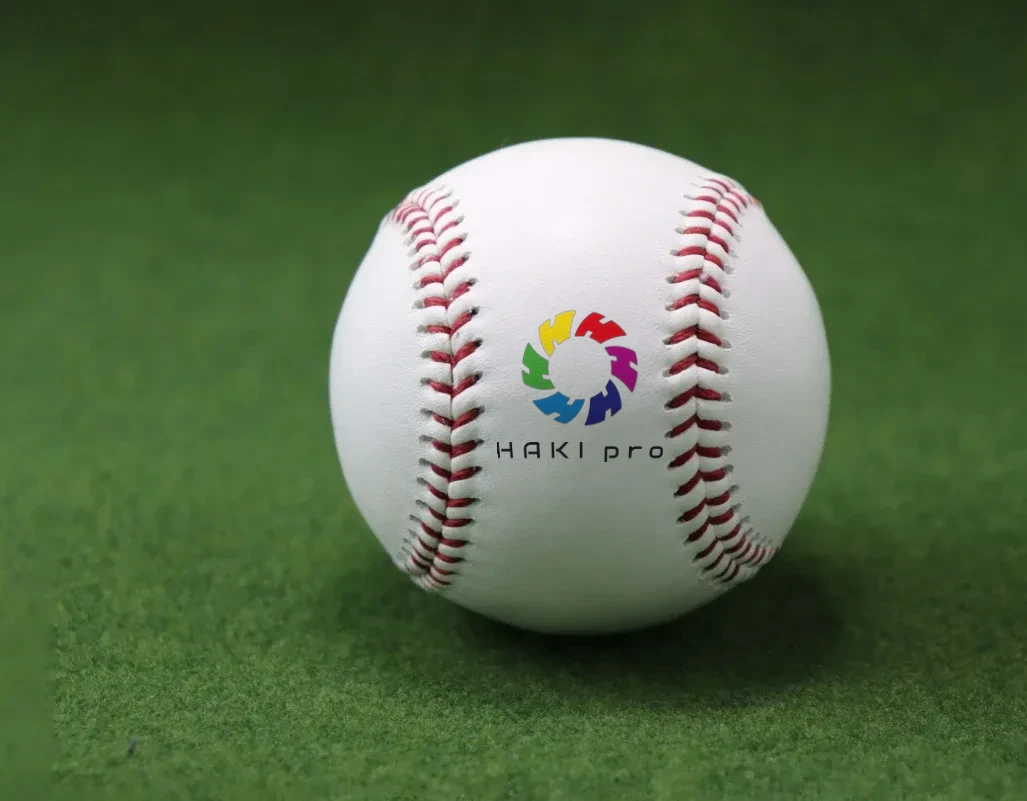
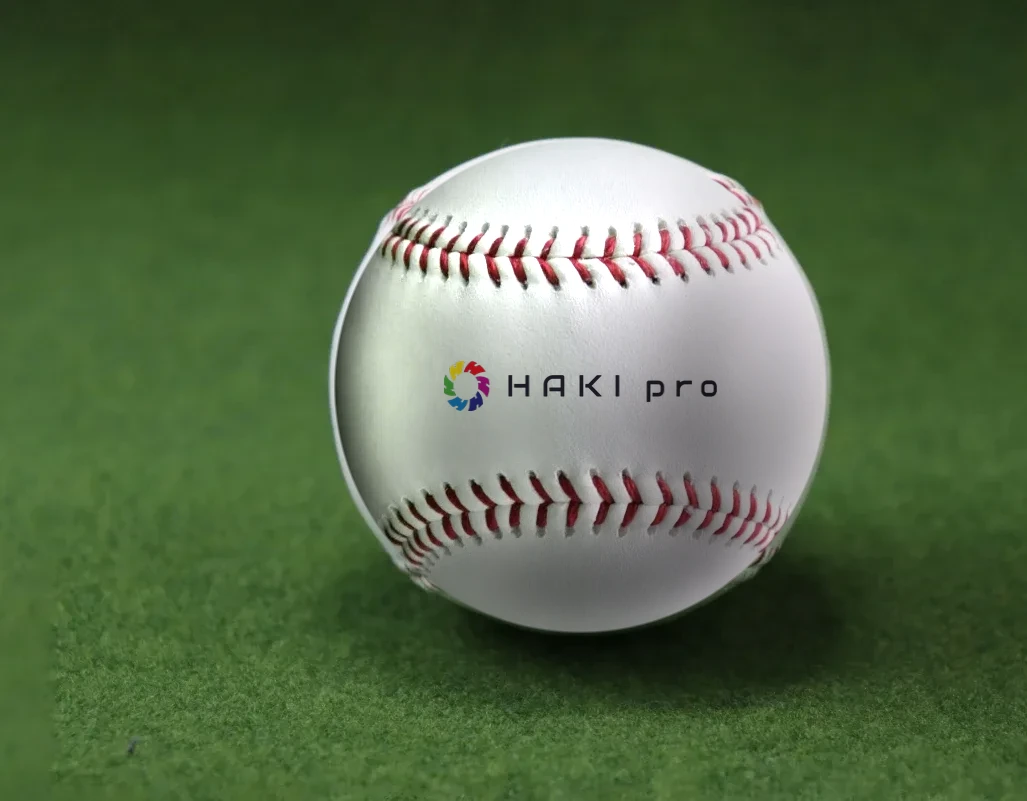
応援ボールのイメージ図：ロゴを横長にし、ボールを90度回して縫い目を上下に
Claude-Session: https://claude.ai/code/session_012Wpoh9LGyrFtd5bQQPYaSi

Changed region(s): [[0.3116, 0.1873, 0.8101, 0.8115], [0.5297, 0.1561, 0.5609, 0.1873]]

diff --git a/CLAUDE.md b/CLAUDE.md
@@ -84,7 +84,7 @@ haki-pro.com（株式会社HAKI pro）の作り直し。旧サイトは WordPres
 
 ## 硬式球再生と応援ボール（2026-11-22）
 - 対象は中学の硬式クラブ・高校・大学（少年野球は軟式なので書かない）。料金は税別で、金額のすぐ横に「（税別）」。ポイントは載せない（オーナー指示）
-- 社名入り応援ボールは 1球800円・10ダース（120球）から・96,000円〜（税別）。社名入りのイメージ図は `assets/img/ball-sponsor.webp`（本物のボールの写真 ball-new.webp に HAKI pro のロゴを球の丸みに合わせて重ねたもの。AI 画像ではない。下に「社名入りのイメージ」と書く）
+- 社名入り応援ボールは 1球800円・10ダース（120球）から・96,000円〜（税別）。社名入りのイメージ図は `assets/img/ball-sponsor.webp`（本物のボールの写真 ball-new.webp に ボールだけを90度回して縫い目を上下にし、横長のロゴ（マーク＋HAKI pro）を球の丸みに合わせて重ねたもの。オーナー指示「ロゴは横に・その分ボールも」。AI 画像ではない。下に「社名入りのイメージ」と書く）
 - CSR と税金は別ページ `/ball-recycle/sponsor/`（`build_sponsor`）。表は `dtable()`（スマホでは行ごとのまとまり。項目の間に線、スマホは項目名と中身の間にも縦線、パソコンは列の間に縦線。オーナー指示「間に線を引いて」「縦も入れて」）。税金は国税庁の資料で確かめたことだけ書く（公立高校＝県・市への寄付で全額損金／学校法人＝特定公益増進法人で別枠／国立・公立大学は窓口で確認）。最終判断は企業の顧問税理士
 - 縦に長い一覧は `cols()`（上の色の線＋番号＋見出し、横に並ぶ）を使う。オーナー指摘「縦にずらっと長いだけ」
 - 下層ページのパンくず（ホーム / …）はページの一番上、メニューのすぐ下（`.crumbs-top`。2026-11-22 オーナー指摘）
